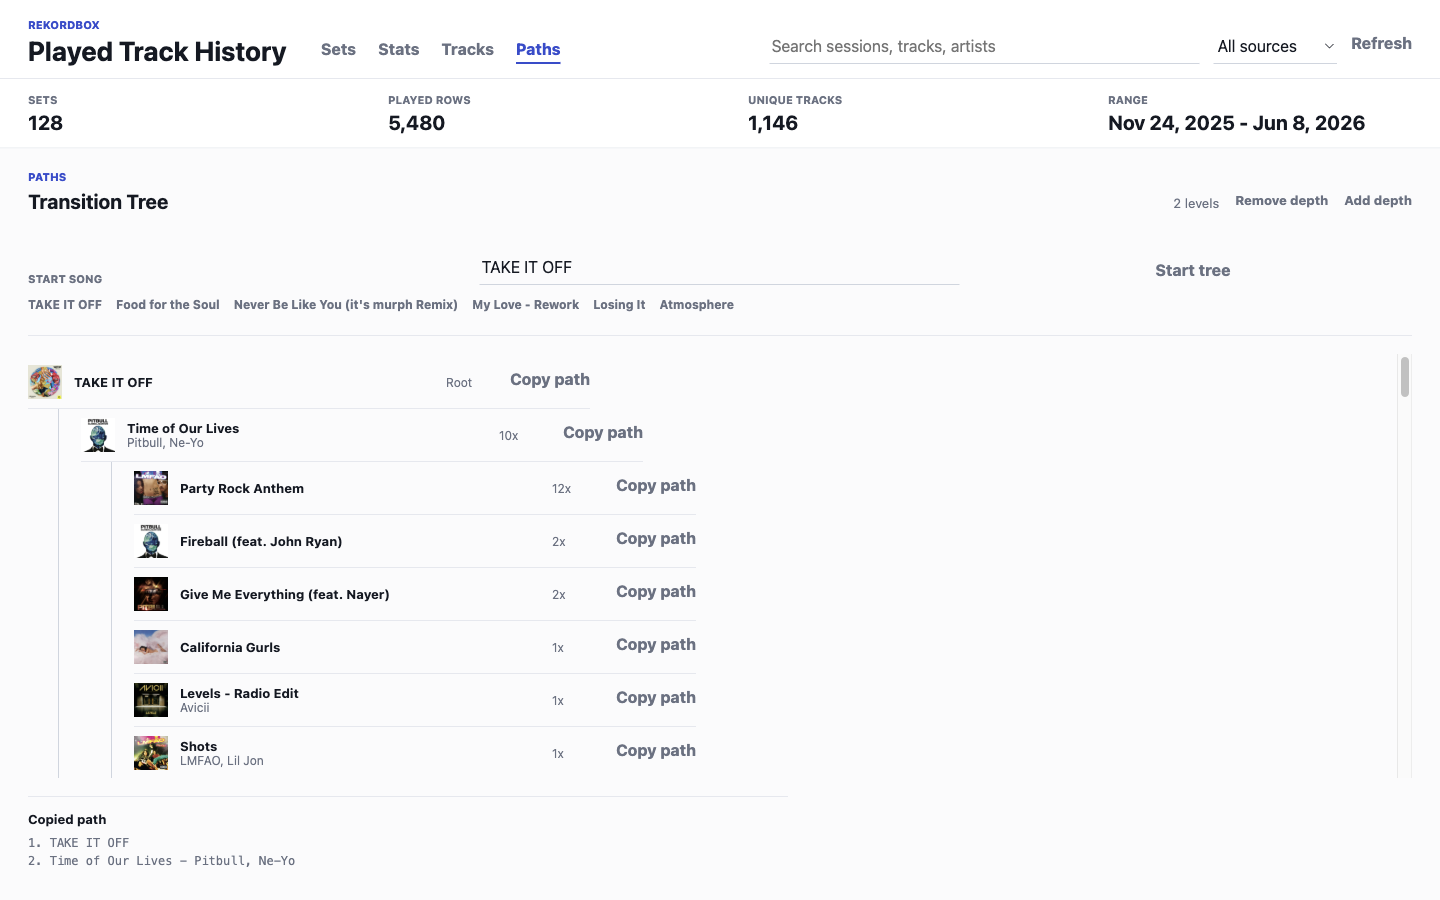
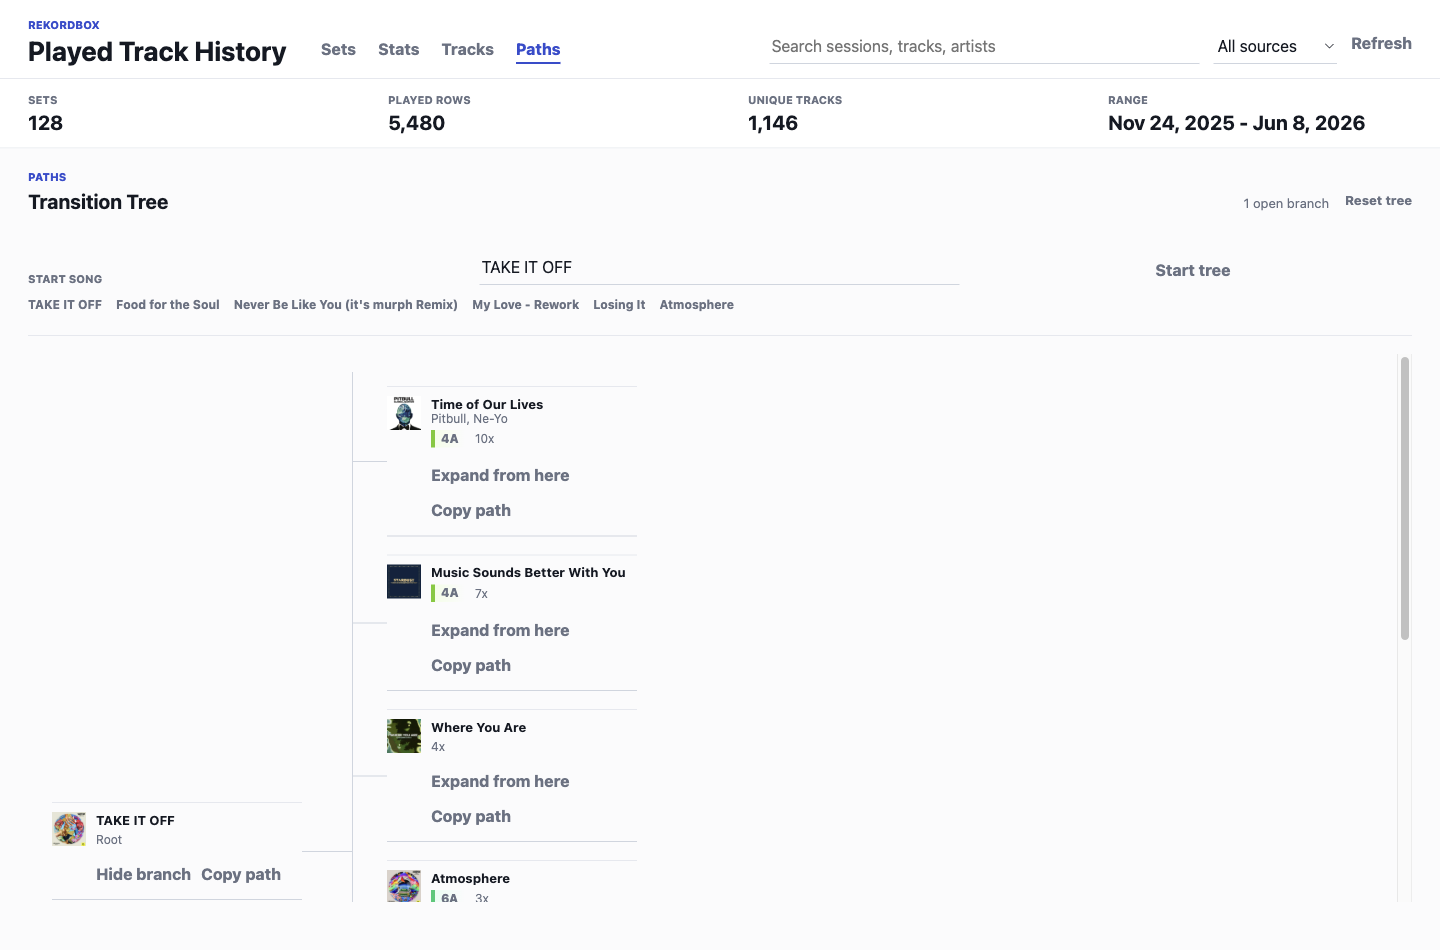
Prepare v0.1.3 release

diff --git a/scripts/extract_rekordbox_history.py b/scripts/extract_rekordbox_history.py
@@ -22,7 +22,10 @@ from typing import Any
 HOME = Path(os.environ.get("REKORDBOX_HISTORY_HOME") or Path.home()).expanduser()
 PROJECT_ROOT = Path(__file__).resolve().parents[1]
 DB_PATH = HOME / "Library" / "Pioneer" / "rekordbox" / "master.db"
-CACHE_PATH = PROJECT_ROOT / "data" / "spotify-track-cache.json"
+CACHE_PATH = Path(
+    os.environ.get("REKORDBOX_HISTORY_CACHE_PATH")
+    or PROJECT_ROOT / "data" / "spotify-track-cache.json"
+).expanduser()
 SPOTIFY_ART_PATH = (
     HOME
     / "Library"

diff --git a/README.md b/README.md
@@ -4,14 +4,14 @@ Turn your Rekordbox play history into a clean desktop dashboard for sets, stats,
 
 ## Download And Run
 
-**Download the latest app here:** <https://github.com/axel-slid/rekordbox-history-viewer/releases/tag/v0.1.2>
+**Download the latest app here:** <https://github.com/axel-slid/rekordbox-history-viewer/releases/tag/v0.1.3>
 
-Pick the file for your computer, unzip it if needed, then open the app. The first launch can take a minute because the app prepares a local Python reader for your Rekordbox database.
+Pick the file for your computer, unzip it if needed, then open the app. The first launch can take a few minutes because the app prepares a local Python reader and resolves Spotify track names into a local cache.
 
 ### Mac
 
 1. Open the download link above.
-2. Download `Rekordbox.History.Viewer-0.1.2-arm64-mac.zip`.
+2. Download `Rekordbox.History.Viewer-0.1.3-arm64-mac.zip`.
 3. Double-click the zip file. This creates the app.
 4. Double-click `Rekordbox History Viewer`.
 5. If macOS blocks it, right-click `Rekordbox History Viewer`, choose **Open**, then choose **Open** again.
@@ -20,7 +20,7 @@ Pick the file for your computer, unzip it if needed, then open the app. The firs
 ### Windows
 
 1. Open the download link above.
-2. Download `Rekordbox.History.Viewer-0.1.2-win.zip`.
+2. Download `Rekordbox.History.Viewer-0.1.3-win.zip`.
 3. Right-click the zip file and choose **Extract All**.
 4. Open the extracted folder.
 5. Double-click `Rekordbox History Viewer.exe`.
@@ -29,7 +29,7 @@ Pick the file for your computer, unzip it if needed, then open the app. The firs
 ### Linux
 
 1. Open the download link above.
-2. Download `Rekordbox.History.Viewer-0.1.2.AppImage`.
+2. Download `Rekordbox.History.Viewer-0.1.3.AppImage`.
 3. Right-click the file, open **Properties**, and allow it to run as a program.
 4. Double-click the AppImage.
 5. Leave the app open on first launch while it prepares the Rekordbox reader.
@@ -60,8 +60,8 @@ That launcher installs the app dependencies, prepares the Python Rekordbox reade
 
 - **Sets:** dated sessions like `June 7th, 2026 Set`, with the tracks played in order.
 - **Stats:** a GitHub-style activity heatmap, genre donut, total play time, average time per day, busiest day, top source, average BPM, and repeated tracks.
-- **Tracks:** a searchable track library with unique tracks, play counts, last played time, BPM, length, source, and sorting.
-- **Paths:** start from a song, expand historical next-track branches one level at a time, and copy any path from the root song.
+- **Tracks:** a searchable track library with unique tracks, play counts, last played time, Camelot-style key badges, BPM, length, source, and sorting.
+- **Paths:** start from a song, expand a rightward branching tree of historical next-track choices, see color-coded Camelot keys, and copy any path from the root song.
 - **Exports:** download a setlist or generate a text prompt for manually recreating a set.
 
 ## Screenshots
@@ -124,7 +124,7 @@ The renderer groups the raw played rows into:
 - genre summaries
 - repeated-track rankings
 
-Spotify metadata is cached locally in `data/spotify-track-cache.json`, which is ignored by git so personal lookup data does not get committed.
+Spotify metadata is cached locally in the app's user-data folder so personal lookup data does not get committed or uploaded.
 
 ## What It Cannot Do Yet
 
